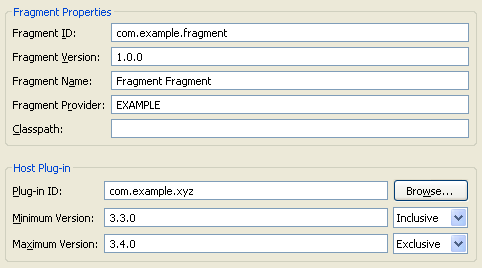
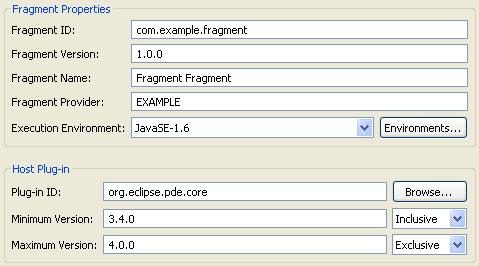
more updates to pde docs (fragments)

Changed region(s): [[0.0, 0.0301, 0.9937, 0.5714], [0.0, 0.6015, 0.9937, 0.9925]]

diff --git a/bundles/org.eclipse.pde.doc.user/guide/tools/project_wizards/plugin_content.htm b/bundles/org.eclipse.pde.doc.user/guide/tools/project_wizards/plugin_content.htm
@@ -30,7 +30,7 @@
 <p>A <strong>Plug-in Version</strong> is mandatory and must be of the form <em>major.minor.micro.qualifier</em> (e.g. 1.3.0).</p>
 <p>A <strong>Plug-in Name</strong> is the translatable presentation name of the plug-in. This field is required. </p>
 <p>A <strong>Plug-in Provider</strong> is the translatable name of the plug-in provider. This field is optional. </p>
-<p><strong>Execution Environment</strong> refers to the required <a href="http://wiki.eclipse.org/EE">execution environment</a> (symbolic representation of a JRE) of you're plug-in. This field is optional but recommended to be set.</p>
+<p><strong>Execution Environment</strong> refers to the required <a href="http://wiki.eclipse.org/EE">execution environment</a> (symbolic representation of a JRE) of your plug-in. This field is optional but recommended to be set.</p>
 <p>&nbsp;</p>
 <p class="style2">Plug-in Options </p>
 <p>An <strong>activator</strong> is a Java class that controls the plug-in's life cycle. It is only needed if you require to do work upon the startup or shutdown of your plug-in. </p>

diff --git a/bundles/org.eclipse.pde.doc.user/guide/tools/project_wizards/fragment_content.htm b/bundles/org.eclipse.pde.doc.user/guide/tools/project_wizards/fragment_content.htm
@@ -30,7 +30,7 @@
 <p>A <strong>Fragment Version</strong> is mandatory and must be of the form <em>major.minor.micro.qualifier</em> (e.g. 1.3.0).</p>
 <p>A <strong>Fragment Name</strong> is the translatable presentation name of the fragment. This field is required. </p>
 <p>A <strong>Fragment Provider</strong> is the translatable name of the fragment provider. This field is optional. </p>
-<p><strong>Classpath</strong> refers to the location of the code once the fragment is packaged. As of Eclipse 3.1, it is recommended to ship fragments as JARs with code at the root of the JAR and leave the classpath field empty. </p>
+<p><strong>Execution Environment</strong> refers to the required <a href="http://wiki.eclipse.org/EE">execution environment</a> (symbolic representation of a JRE) of your plug-in. This field is optional but recommended to be set.</p>
 <p>&nbsp;</p>
 <p class="style2">Host Plug-in</p>
 <p>A fragment must specify a host plug-in that it will add functionality to and the host version range that it requires. </p>

diff --git a/bundles/org.eclipse.pde.doc.user/guide/tools/project_wizards/fragment_structure.htm b/bundles/org.eclipse.pde.doc.user/guide/tools/project_wizards/fragment_structure.htm
@@ -41,6 +41,9 @@
 <p class="style2">Equinox vs. Standard</p>
 <p>When targeting an OSGi framework, you have a choice between the <strong>Equinox</strong> and <strong>standard</strong> frameworks. The Equinox OSGi framework augments the <em>MANIFEST.MF</em> content with Eclipse-specific headers (e.g. <strong>Eclipse-LazyStart</strong>) and directives (e.g. <strong>x-friends</strong>). If you do not wish to use these Eclipse-specific headers and attributes, then choose the <strong>standard</strong> option. </p>
 <p>&nbsp; </p>
+<p class="style2">Working Sets</p>
+<p>For convenience, plug-in projects can easily be associated with working sets which are defined in the workbench. </p>
+<p>&nbsp; </p>
 <p>&nbsp;</p>
 </body>
 
